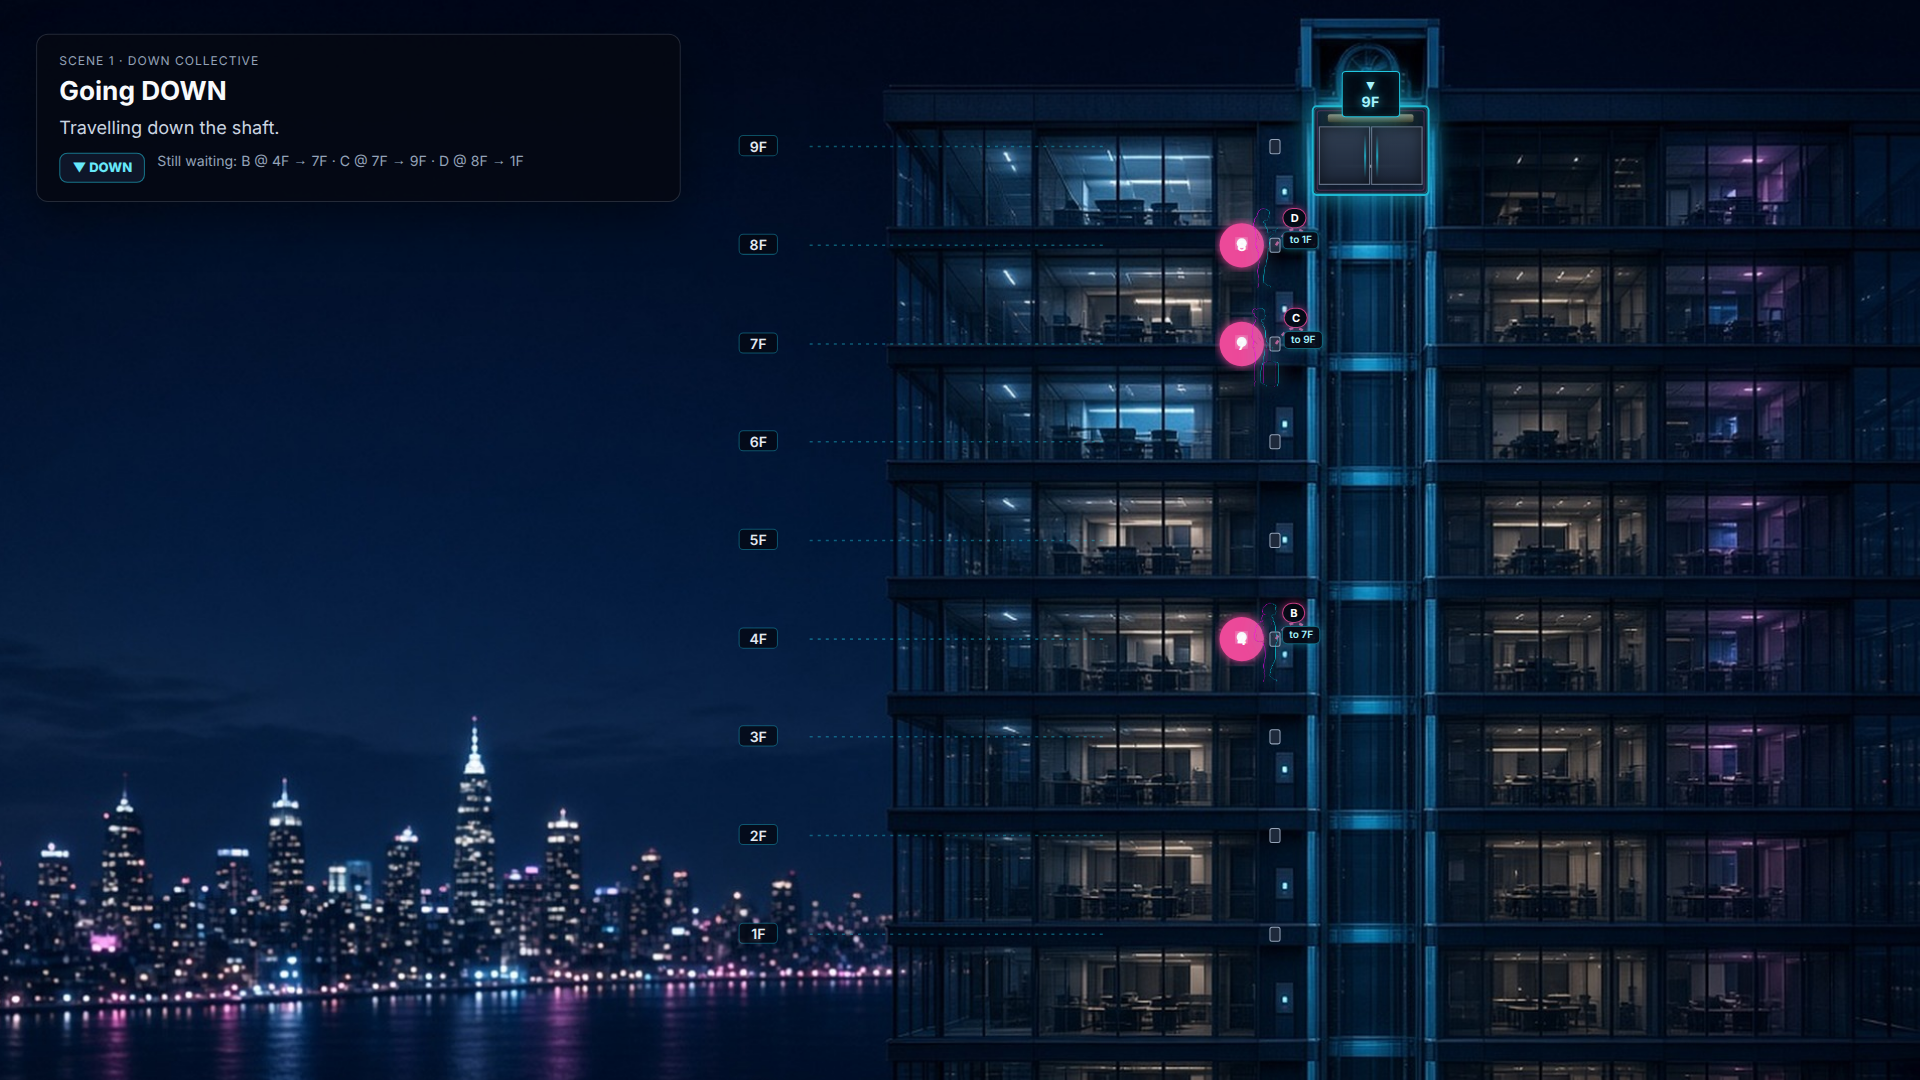
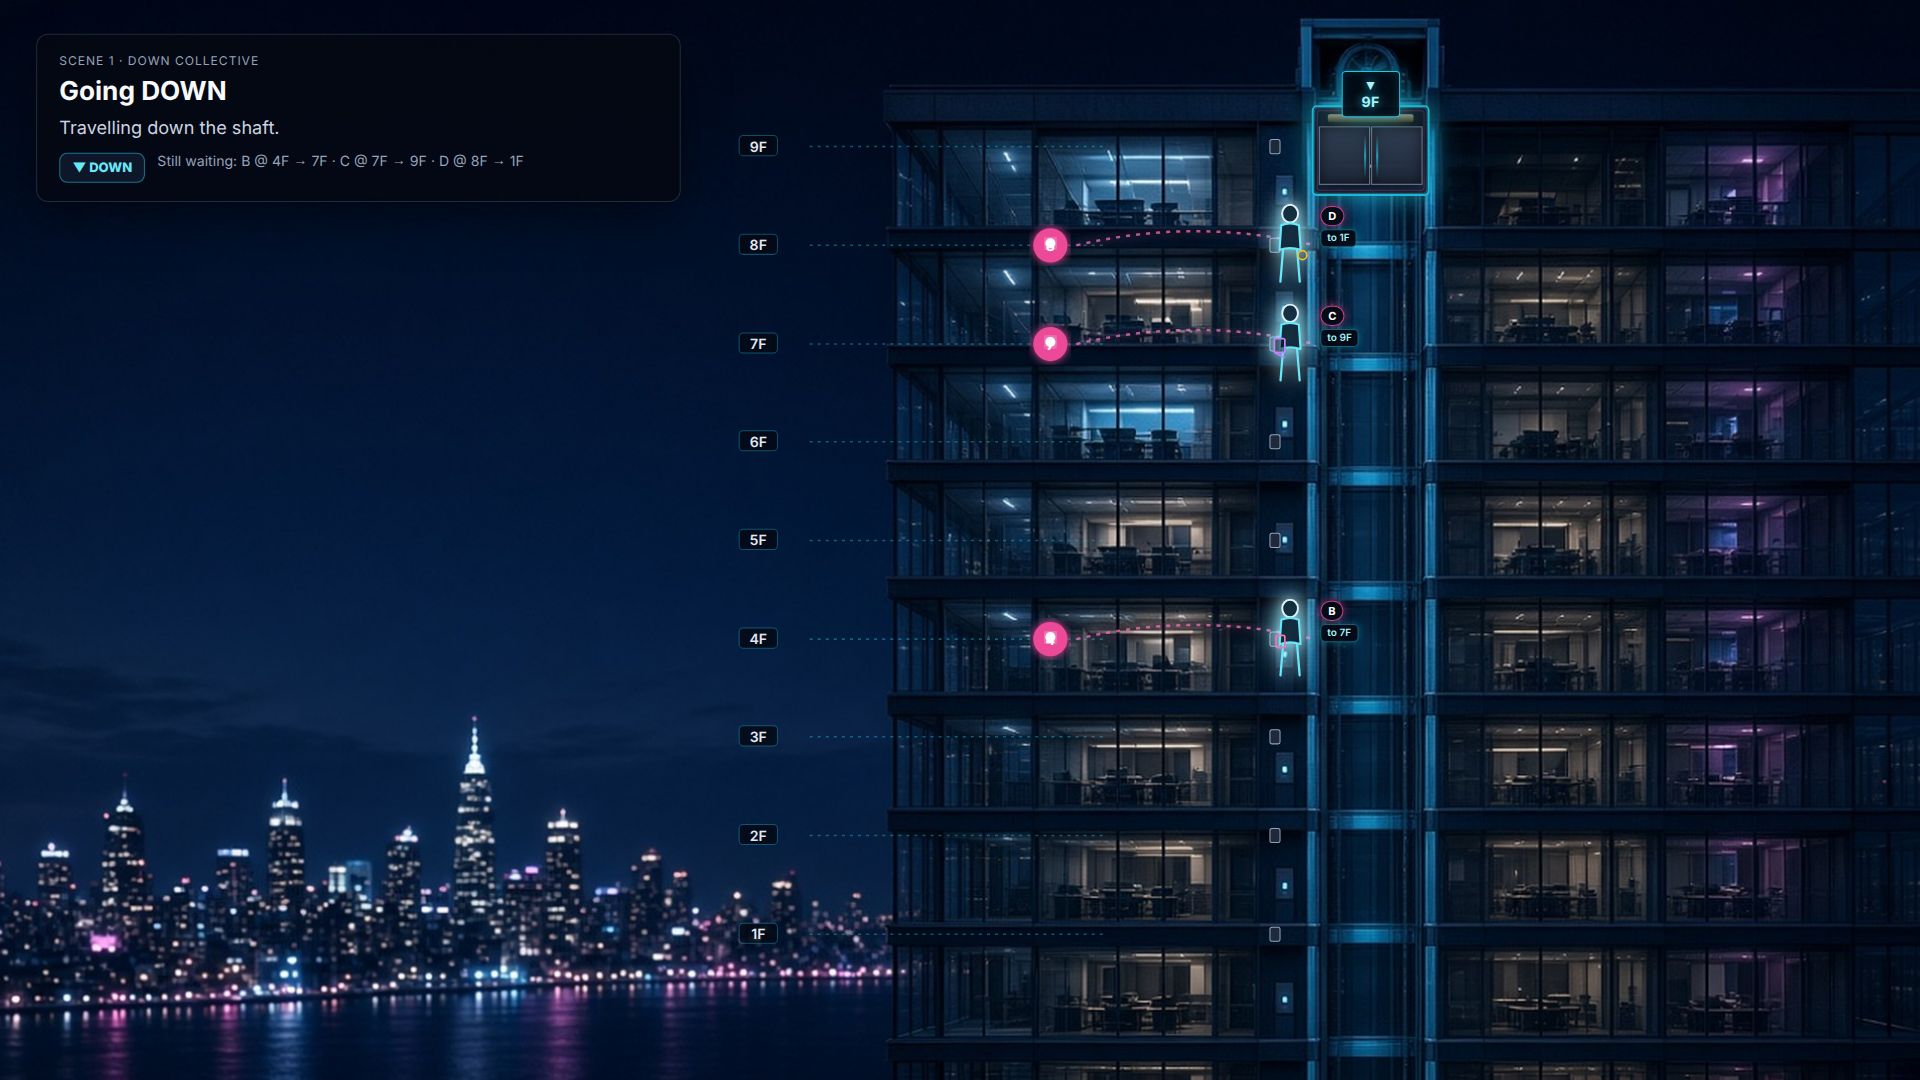
v4: neon SVG riders separated from call bubbles, visibility checks

diff --git a/apps/elevator-selective-collective/composition/scene.js b/apps/elevator-selective-collective/composition/scene.js
@@ -19,6 +19,7 @@ import {
   DEMO_PASSENGERS,
   getStateAtSimTime,
 } from './simulation.js'
+import { injectRiderSvg } from './rider-silhouettes.js'
 
 const CALL_FLOORS = [4, 7, 8]
 
@@ -46,6 +47,7 @@ export function initComposition() {
   buildFloorLabels()
   buildLandings()
   buildCalls()
+  initRiderArt()
   placeLandingRiders()
   populateStatsRiders()
 
@@ -152,14 +154,14 @@ export function initComposition() {
     })
   }
 
-  function positionLandingRider(el, floor) {
+  function positionLandingRider(el, floor, offsetPx = 0) {
     const h = landingRiderHeightPx(floor)
-    const img = el.querySelector('img')
-    if (img) img.style.height = `${h}px`
+    const fig = el.querySelector('.figure-wrap')
+    if (fig) fig.style.height = `${h}px`
     el.dataset.floor = String(floor)
-    el.style.left = `${LAYOUT.landingX}px`
+    el.style.left = `${LAYOUT.landingX + offsetPx}px`
     el.style.top = `${landingSlabY(floor)}px`
-    el.style.transform = 'translate(-58%, -100%)'
+    el.style.transform = 'translate(-50%, -100%)'
   }
 
   function updateCallBadges(waitingIds) {
@@ -273,13 +275,31 @@ export function initComposition() {
     car.style.opacity = '1'
     updateRiders(state, state.floor, state.doorsOpen)
     updateCallBadges(state.waiting)
-    if (
-      mode === 'selective-collective' &&
-      state.doorsOpen &&
-      Math.abs(state.floor - 7) < 0.2 &&
-      state.simTime >= 9.2
-    ) {
+    if (phase === 'selective' && t >= 48.2 && t <= 49.5) {
       expSubtitle.textContent = 'B exits at 7F while C boards — same dwell, two riders.'
+      const bLand = document.getElementById('rider-b-landing')
+      const cLand = document.getElementById('rider-c-landing')
+      for (const id of ['a', 'b', 'c', 'd']) {
+        const cab = document.getElementById(`rider-${id}-cab`)
+        if (cab) cab.style.opacity = id === 'a' ? '1' : '0'
+      }
+      if (bLand) {
+        positionLandingRider(bLand, 7, -26)
+        bLand.style.opacity = '1'
+      }
+      if (cLand) {
+        positionLandingRider(cLand, 7, 22)
+        cLand.style.opacity = '1'
+      }
+      riderCount.textContent = '1 in car'
+    }
+    if (phase === 'selective' && t >= 52.8 && t <= 54.2) {
+      const dLand = document.getElementById('rider-d-landing')
+      if (dLand) {
+        positionLandingRider(dLand, 8, 0)
+        dLand.style.opacity = '1'
+        document.getElementById('rider-d-cab').style.opacity = '0'
+      }
     }
   }
 
@@ -321,9 +341,11 @@ export function initComposition() {
     const cab = validateCabPlacement(floor)
     const riders = validateVisibleLandingRiders()
     const cabs = validateCabRiders()
+    const sep = validateCallBubbleSeparation()
     if (!cab.ok) return cab
     if (!riders.ok) return riders
     if (!cabs.ok) return cabs
+    if (!sep.ok) return sep
     return { ok: true }
   }
 
@@ -417,6 +439,46 @@ export function validateVisibleLandingRiders() {
   return errors.length ? { ok: false, error: errors.join('; ') } : { ok: true }
 }
 
+function bboxOverlapRatio(figRect, otherRect) {
+  const xOverlap = Math.max(0, Math.min(figRect.right, otherRect.right) - Math.max(figRect.left, otherRect.left))
+  const yOverlap = Math.max(0, Math.min(figRect.bottom, otherRect.bottom) - Math.max(figRect.top, otherRect.top))
+  const overlap = xOverlap * yOverlap
+  const area = Math.max(1, figRect.width * figRect.height)
+  return overlap / area
+}
+
+export function validateCallBubbleSeparation() {
+  const errors = []
+  for (const el of document.querySelectorAll('.landing-rider')) {
+    const opacity = parseFloat(getComputedStyle(el).opacity)
+    if (!opacity || opacity < 0.05) continue
+    const floor = Number(el.dataset.floor)
+    const fig = el.querySelector('.figure-wrap')
+    if (!fig) continue
+    const figRect = fig.getBoundingClientRect()
+    const badge = document.querySelector(`.call-badge[data-floor="${floor}"]`)
+    if (!badge) continue
+    const badgeRect = badge.getBoundingClientRect()
+    const ratio = bboxOverlapRatio(figRect, badgeRect)
+    if (ratio > 0.05) {
+      errors.push(`call bubble overlaps ${floor}F figure by ${(ratio * 100).toFixed(1)}%`)
+    }
+    const cx = figRect.left + figRect.width / 2
+    const cy = figRect.top + figRect.height / 2
+    if (cx >= badgeRect.left && cx <= badgeRect.right && cy >= badgeRect.top && cy <= badgeRect.bottom) {
+      errors.push(`figure center for ${floor}F sits inside call bubble`)
+    }
+    if (figRect.left < badgeRect.right - 4) {
+      errors.push(`figure ${floor}F should be right of call bubble (fig left ${figRect.left.toFixed(0)} badge right ${badgeRect.right.toFixed(0)})`)
+    }
+    const hit = document.elementFromPoint(cx, cy)
+    if (hit?.closest?.('.call-badge')) {
+      errors.push(`figure center for ${floor}F hits call bubble in DOM`)
+    }
+  }
+  return errors.length ? { ok: false, error: errors.join('; ') } : { ok: true }
+}
+
 export function validateCabRiders() {
   const car = document.getElementById('car')
   const shell = car?.querySelector('.neon-cab-body')
@@ -437,21 +499,30 @@ export function validateCabRiders() {
   return errors.length ? { ok: false, error: errors.join('; ') } : { ok: true }
 }
 
+function initRiderArt() {
+  for (const id of ['a', 'b', 'c', 'd']) {
+    const land = document.querySelector(`#rider-${id}-landing .figure-wrap`)
+    const cab = document.querySelector(`#rider-${id}-cab .figure-wrap`)
+    if (land) injectRiderSvg(land, id)
+    if (cab) injectRiderSvg(cab, id)
+  }
+}
+
 function placeLandingRiders() {
   for (const spec of DEMO_PASSENGERS) {
     if (spec.origin === 1 && spec.startsInCar) continue
     const el = document.getElementById(`rider-${spec.id}-landing`)
     if (!el) continue
     const h = landingRiderHeightPx(spec.origin)
-    const img = el.querySelector('img')
-    if (img) img.style.height = `${h}px`
+    const fig = el.querySelector('.figure-wrap')
+    if (fig) fig.style.height = `${h}px`
     el.dataset.floor = String(spec.origin)
     el.style.left = `${LAYOUT.landingX}px`
     el.style.top = `${landingSlabY(spec.origin)}px`
-    el.style.transform = 'translate(-58%, -100%)'
+    el.style.transform = 'translate(-50%, -100%)'
   }
-  for (const img of document.querySelectorAll('.cab-rider img')) {
-    img.style.height = `${LAYOUT.cabRiderHeight}px`
+  for (const fig of document.querySelectorAll('.cab-rider .figure-wrap')) {
+    fig.style.height = `${LAYOUT.cabRiderHeight}px`
   }
 }
 
@@ -516,9 +587,9 @@ function buildCalls() {
     const g = document.createElementNS('http://www.w3.org/2000/svg', 'g')
     g.setAttribute('class', 'call-badge')
     g.dataset.floor = String(f)
-    g.setAttribute('transform', `translate(${LAYOUT.callX}, ${cy})`)
+    g.setAttribute('transform', `translate(${LAYOUT.callBubbleX}, ${cy})`)
     g.innerHTML = `
-      <circle class="call-circle" cx="0" cy="0" r="22"/>
+      <circle class="call-circle" cx="0" cy="0" r="17"/>
       <circle class="call-dot" cx="0" cy="-2" r="5" opacity="0"/>
       <text class="call-num" x="0" y="6">${f}</text>
       <text class="call-dir" x="0" y="-14">${arrowFor(f)}</text>

diff --git a/apps/elevator-selective-collective/composition/index.html b/apps/elevator-selective-collective/composition/index.html
@@ -133,11 +133,12 @@
         box-shadow: inset 0 0 0 1px rgba(103, 232, 249, 0.25);
       }
       .cab-rider {
-        position: absolute; bottom: 12%; z-index: 6;
+        position: absolute; bottom: 14%; z-index: 6;
         opacity: 0;
-        filter: drop-shadow(0 0 12px rgba(244, 114, 182, 0.9)) drop-shadow(0 0 4px #22d3ee);
+        width: 22px;
+        filter: drop-shadow(0 0 8px rgba(103, 232, 249, 0.95));
       }
-      .cab-rider img { height: 38px; width: auto; display: block; opacity: 1; max-width: 36px; object-fit: contain; }
+      .cab-rider .figure-wrap { width: 100%; height: 38px; }
       #rider-count {
         position: absolute; top: 6%; right: 8%;
         padding: 4px 8px; border-radius: 6px;
@@ -153,16 +154,15 @@
       }
       .landing-rider .figure-wrap {
         position: relative;
-        filter: drop-shadow(0 0 10px rgba(244, 114, 182, 0.95)) drop-shadow(0 0 6px rgba(34, 211, 238, 0.85));
+        width: 48px;
+        filter: drop-shadow(0 0 12px rgba(103, 232, 249, 0.95)) drop-shadow(0 0 6px rgba(224, 242, 254, 0.75));
       }
-      .landing-rider img {
-        width: auto; display: block; opacity: 1;
-        filter: contrast(1.5) saturate(1.35) brightness(1.08);
-      }
+      .neon-person-svg { display: block; width: 100%; height: 100%; }
       .rider-chip {
-        position: absolute; left: calc(100% + 4px); top: 0;
+        position: absolute; left: calc(100% + 6px); top: 2px;
         display: flex; flex-direction: column; align-items: flex-start; gap: 3px;
         pointer-events: none;
+        z-index: 2;
       }
       #calls[data-mode="down-collective"] .call-dir { opacity: 0; }
       #calls[data-mode="down-collective"] .call-dot { opacity: 1; }
@@ -322,25 +322,25 @@
               <div class="neon-door door-left" aria-hidden="true"></div>
               <div class="neon-door door-right" aria-hidden="true"></div>
               <div class="neon-cab-glow-edge" aria-hidden="true"></div>
-              <div class="cab-rider" id="rider-a-cab" style="left: 8%"><img src="art/processed/passenger-1.png" alt="" /></div>
-              <div class="cab-rider" id="rider-b-cab" style="left: 28%"><img src="art/processed/passenger-2.png" alt="" /></div>
-              <div class="cab-rider" id="rider-c-cab" style="left: 48%"><img src="art/processed/passenger-3.png" alt="" /></div>
-              <div class="cab-rider" id="rider-d-cab" style="left: 68%"><img src="art/processed/passenger-4.png" alt="" /></div>
+              <div class="cab-rider" id="rider-a-cab" style="left: 10%"><div class="figure-wrap"></div></div>
+              <div class="cab-rider" id="rider-b-cab" style="left: 30%"><div class="figure-wrap"></div></div>
+              <div class="cab-rider" id="rider-c-cab" style="left: 50%"><div class="figure-wrap"></div></div>
+              <div class="cab-rider" id="rider-d-cab" style="left: 70%"><div class="figure-wrap"></div></div>
             </div>
           </div>
         </div>
 
         <div class="landing-rider" id="rider-b-landing" data-floor="4" data-origin-floor="4">
           <div class="rider-chip"><span class="rider-name">B</span><span class="rider-dest">to 7F</span></div>
-          <div class="figure-wrap"><img src="art/processed/passenger-2.png" alt="" /></div>
+          <div class="figure-wrap"></div>
         </div>
         <div class="landing-rider" id="rider-c-landing" data-floor="7" data-origin-floor="7">
           <div class="rider-chip"><span class="rider-name">C</span><span class="rider-dest">to 9F</span></div>
-          <div class="figure-wrap"><img src="art/processed/passenger-3.png" alt="" /></div>
+          <div class="figure-wrap"></div>
         </div>
         <div class="landing-rider" id="rider-d-landing" data-floor="8" data-origin-floor="8">
           <div class="rider-chip"><span class="rider-name">D</span><span class="rider-dest">to 1F</span></div>
-          <div class="figure-wrap"><img src="art/processed/passenger-4.png" alt="" /></div>
+          <div class="figure-wrap"></div>
         </div>
 
         <div class="left-panel">

diff --git a/apps/elevator-selective-collective/composition/layout.js b/apps/elevator-selective-collective/composition/layout.js
@@ -39,7 +39,10 @@ export const LAYOUT = {
   medianPitch,
   landingRiderMaxHeight: Math.round(medianPitch * 0.85),
   cabRiderHeight: Math.round(medianPitch * 0.38),
-  landingX: MEASURED_HALL_X - 8,
+  /** Landing figure — just left of shaft, clear of call bubble. */
+  landingX: MEASURED_SHAFT.left - 18,
+  /** Pink call bubble — well left of the waiting figure. */
+  callBubbleX: 1055,
   frontTop: MEASURED_FLOOR_Y[MEASURED_FLOOR_Y.length - 1],
   frontBottom: MEASURED_FLOOR_Y[0],
 }
@@ -65,11 +68,7 @@ export function carTranslateX() {
 }
 
 export function callToShaftPath(floor) {
-  const y = floorCenterY(floor)
-  const x0 = LAYOUT.callX + 34
-  const x1 = LAYOUT.shaftLeft + 6
-  const cx = (x0 + x1) / 2
-  return `M ${x0} ${y} Q ${cx} ${y - 32} ${x1} ${y}`
+  return callToShaftPathFromBubble(floor)
 }
 
 /** @returns {{ top: number, bottom: number, center: number, pitch: number }} */
@@ -90,7 +89,15 @@ export function landingSlabY(floor) {
 }
 
 export function landingRiderHeightPx(floor) {
-  return Math.floor(floorBand(floor).pitch * 0.82)
+  return Math.floor(floorBand(floor).pitch * 0.86)
+}
+
+export function callToShaftPathFromBubble(floor) {
+  const y = floorCenterY(floor)
+  const x0 = LAYOUT.callBubbleX + 26
+  const x1 = LAYOUT.shaftLeft + 6
+  const cx = (x0 + x1) / 2
+  return `M ${x0} ${y} Q ${cx} ${y - 28} ${x1} ${y}`
 }
 
 export function assertFloorAlignment(placements) {

diff --git a/apps/elevator-selective-collective/composition/rider-silhouettes.js b/apps/elevator-selective-collective/composition/rider-silhouettes.js
@@ -1,0 +1,24 @@
+/** Stylized neon person silhouettes (distinct per rider). viewBox 0 0 48 96 */
+
+const base = (extra = '') => `
+  <ellipse cx="24" cy="11" rx="9" ry="10" fill="rgba(12,36,52,0.92)" stroke="#e0f2fe" stroke-width="2.2"/>
+  <path d="M14 24 Q24 20 34 24 L36 52 Q24 48 12 52 Z" fill="rgba(8,28,44,0.9)" stroke="#67e8f9" stroke-width="2.4" stroke-linejoin="round"/>
+  <path d="M16 52 L13 88 M32 52 L35 88" fill="none" stroke="#67e8f9" stroke-width="2.6" stroke-linecap="round"/>
+  ${extra}
+`
+
+export const RIDER_SVG_HTML = {
+  a: base(`<path d="M34 30 L42 38" fill="none" stroke="#a5f3fc" stroke-width="2"/>`),
+  b: base(`<rect x="8" y="42" width="10" height="14" rx="2" fill="none" stroke="#f472b6" stroke-width="2"/>`),
+  c: base(
+    `<rect x="6" y="40" width="12" height="16" rx="2" fill="rgba(20,12,32,0.5)" stroke="#c084fc" stroke-width="2"/>
+     <line x1="6" y1="56" x2="18" y2="62" stroke="#c084fc" stroke-width="2"/>`,
+  ),
+  d: base(`<circle cx="38" cy="58" r="5" fill="none" stroke="#fbbf24" stroke-width="2"/>`),
+}
+
+export function injectRiderSvg(container, riderId) {
+  const inner = RIDER_SVG_HTML[riderId]
+  if (!container || !inner) return
+  container.innerHTML = `<svg viewBox="0 0 48 96" xmlns="http://www.w3.org/2000/svg" class="neon-person-svg" aria-hidden="true">${inner}</svg>`
+}
